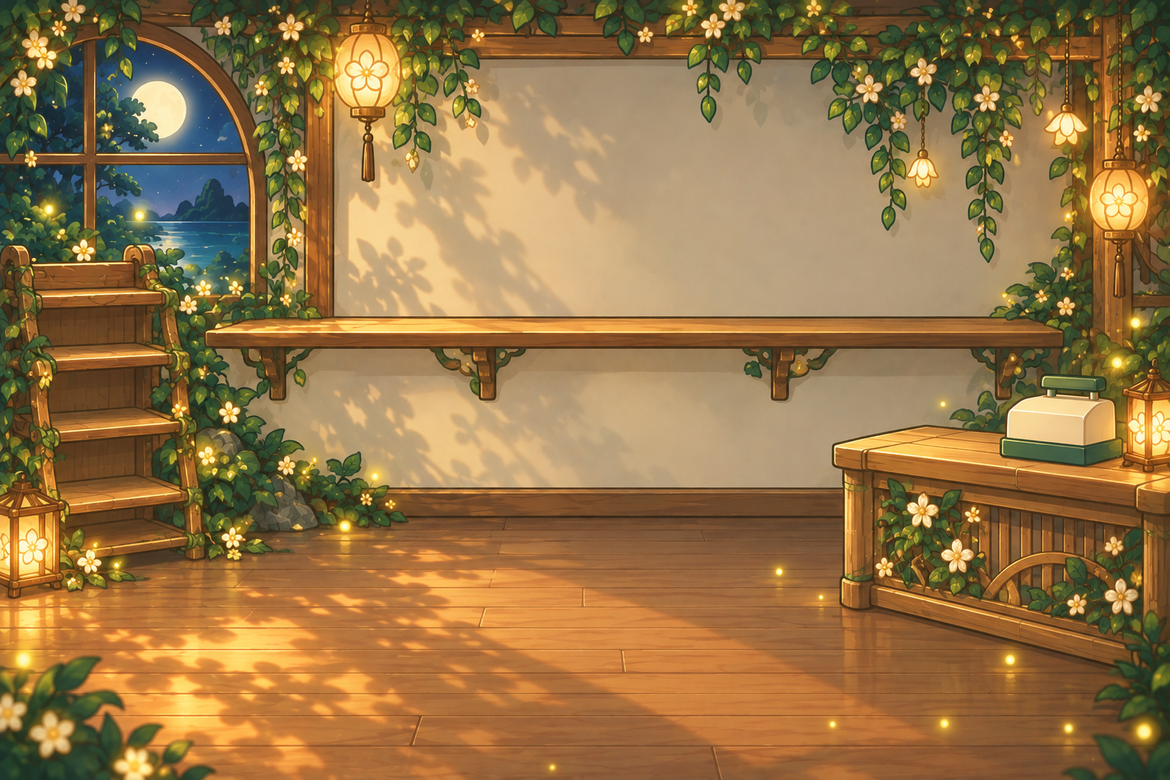
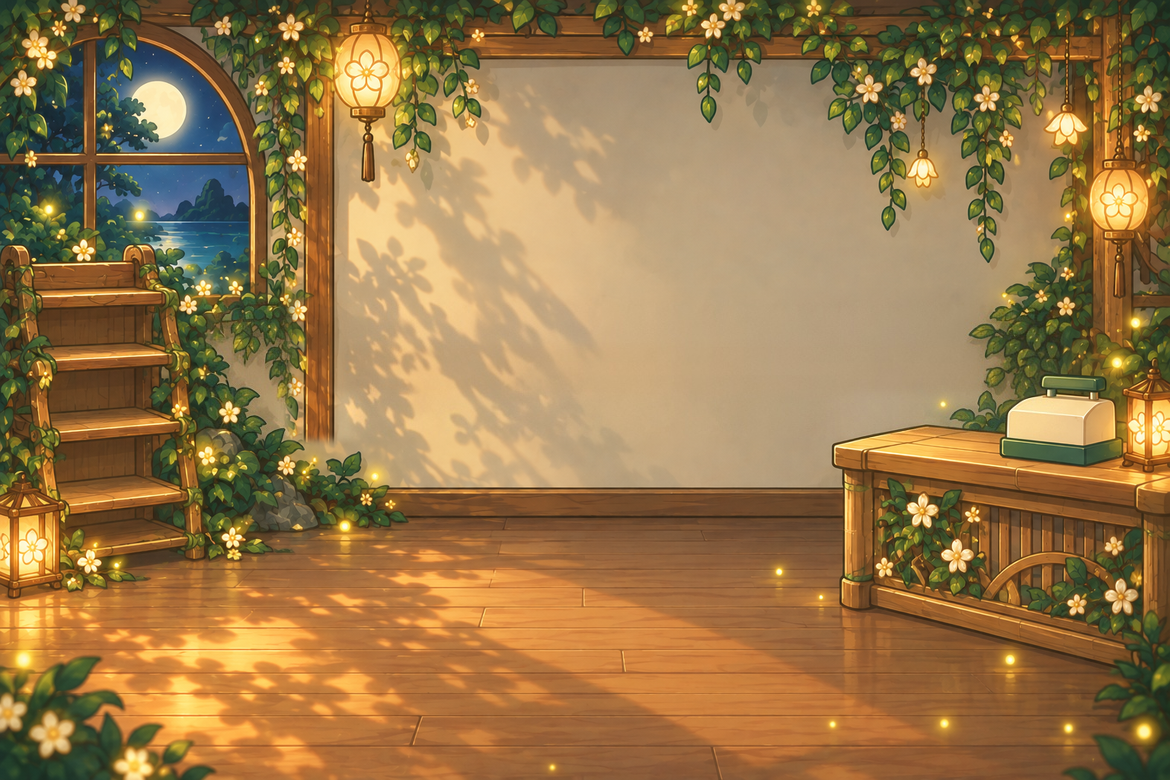
Shelf: Phu's shelf-less shop backgrounds; the six stand pots move to a code-drawn shelf inside image y 300-410 px, six equal 56 dp cells 12 dp from the sides

Changed region(s): [[0.1538, 0.3692, 0.9231, 0.5846], [0.1846, 0.5231, 0.2154, 0.5538]]

diff --git a/lib/logic/pot_slots.dart b/lib/logic/pot_slots.dart
@@ -10,16 +10,44 @@ import '../save/game_state.dart' show barPotSlots;
 /// The slot's pot area on the bar: x 28 + 64 i, 58 wide, 66 tall.
 Rect barPotRect(int i) => Rect.fromLTWH(28.0 + i * 64 - 6, 76, 58, 66);
 
-/// Six buckets on the left stand. Each skin is only as tall as its own
-/// bucket, so the pot above does not cover the one below.
-const displayPotRects = [
-  Rect.fromLTWH(28, 156, 32, 32),
-  Rect.fromLTWH(61, 156, 32, 32),
-  Rect.fromLTWH(19, 194, 32, 32),
-  Rect.fromLTWH(61, 194, 32, 32),
-  Rect.fromLTWH(23, 229, 32, 32),
-  Rect.fromLTWH(63, 229, 32, 32),
-];
+/// The shop backgrounds (`nen_man_hinh_*`, 1170x780) no longer paint a
+/// shelf (Phu 26/10): the scene draws it inside image y 300-410 px. The
+/// picture fills the 268 dp tall area from y 44 (cover, bottom-anchored,
+/// height-bound for a 3:2 file), so an image row maps to the frame here.
+const double shopBgTop = 44;
+const double shopBgHeight = 268;
+const double shopBgImageHeight = 780;
+double shopBgImageY(double y) => shopBgTop + y * shopBgHeight / shopBgImageHeight;
+
+/// The shelf band and its plank (image px): pots stand on the plank top.
+const double shelfImageTop = 300;
+const double shelfImageBottom = 410;
+const double shelfPlankImageTop = 382;
+
+/// The plank, 12 dp from each side of the 360 dp frame.
+final Rect displayShelfPlank = Rect.fromLTRB(
+  12,
+  shopBgImageY(shelfPlankImageTop),
+  348,
+  shopBgImageY(shelfImageBottom),
+);
+
+/// Six equal slots on the shelf, centred in 56 dp cells; each pot is as
+/// tall as the band above the plank allows (about 30 dp).
+final List<Rect> displayPotRects = () {
+  final plank = displayShelfPlank;
+  final size = plank.top + 1 - shopBgImageY(shelfImageTop);
+  final cell = plank.width / 6;
+  return [
+    for (var i = 0; i < 6; i++)
+      Rect.fromLTWH(
+        plank.left + cell * i + (cell - size) / 2,
+        plank.top + 1 - size,
+        size,
+        size,
+      ),
+  ];
+}();
 
 /// The dashed gold box drawn on a slot in placing mode (54×56 on the bar,
 /// just inside the stand's 33 dp pitch on the stand).

diff --git a/test/screenshots/ui_fix_round_screenshot_test.dart b/test/screenshots/ui_fix_round_screenshot_test.dart
@@ -171,6 +171,49 @@ void main() {
           );
         }
       }
+      if (_want('shelf')) {
+        for (final theme in [
+          'mac_dinh',
+          'bxh_mua1',
+          'son_hai',
+          'he_bien',
+          'tet',
+          'trung_thu',
+        ]) {
+          final s = _session();
+          s.screen = Screen.shop;
+          s.markPotHintShown();
+          const pots = [
+            'dragon',
+            'phoenix',
+            'tiger',
+            'tortoise',
+            'qilin',
+            'chau_bao_binh',
+          ];
+          for (var i = 0; i < pots.length; i++) {
+            s.state.displayPots[i] = pots[i];
+          }
+          final picks = <String, String>{};
+          for (final d in s.skins.list) {
+            if (d.slot != 'nenManHinh' || d.theme != theme) continue;
+            s.state.ownedSkins.add(d.id);
+            picks[d.slot] = d.id;
+          }
+          s.wearSkins(picks);
+          await _shoot(
+            tester,
+            name: 't1_shelf_${theme}_$tag',
+            session: s,
+            size: size,
+            child: () => _shop(s),
+            // The pot pictures load after the first frames.
+            act: () => tester.runAsync(
+              () => Future<void>.delayed(const Duration(seconds: 4)),
+            ),
+          );
+        }
+      }
       if (_want('brush')) {
         final s = _session(); // before opening: the brush shows
         s.screen = Screen.shop;

diff --git a/lib/components/shop_scene.dart b/lib/components/shop_scene.dart
@@ -488,6 +488,12 @@ class ShopScene extends PositionComponent with TapCallbacks {
         _bar(c, Rect.fromLTWH(x + 4, 154, 36, 4), fr, freshnessColor(fr));
       }
     }
+    // The second shelf, drawn in code (the backgrounds have none).
+    if (plank != null) {
+      _drawArt(c, plank, displayShelfPlank);
+    } else {
+      c.drawRect(displayShelfPlank, Paint()..color = MockPalette.shelfWood);
+    }
     for (var i = 0; i < _displayPots.length; i++) {
       final id = session.state.displayPots[i];
       if (id == defaultPotId) continue;
@@ -502,7 +508,7 @@ class ShopScene extends PositionComponent with TapCallbacks {
 
   /// Six buckets on the left stand. Each skin is only as tall as its own
   /// bucket, so the pot above does not cover the one below.
-  static const _displayPots = displayPotRects;
+  static final _displayPots = displayPotRects;
 
   /// [rect] grown by the pot's `potScale` around its bottom centre, so the
   /// foot stays where it was drawn.

diff --git a/lib/ui/decorate_screen.dart b/lib/ui/decorate_screen.dart
@@ -434,6 +434,14 @@ class _Preview extends StatelessWidget {
                 errorBuilder: (_, _, _) => const SizedBox.shrink(),
               ),
             ),
+            Positioned.fromRect(
+              rect: displayShelfPlank.shift(_previewShift),
+              child: Image.asset(
+                Art.scene('ke_hoa'),
+                fit: BoxFit.fill,
+                errorBuilder: (_, _, _) => const SizedBox.shrink(),
+              ),
+            ),
             // The pots as ShopScene draws them: all 5 bar slots (the free
             // bucket or the pot), then the stand's non-free pots.
             for (var i = 0; i < barPotSlots; i++)
